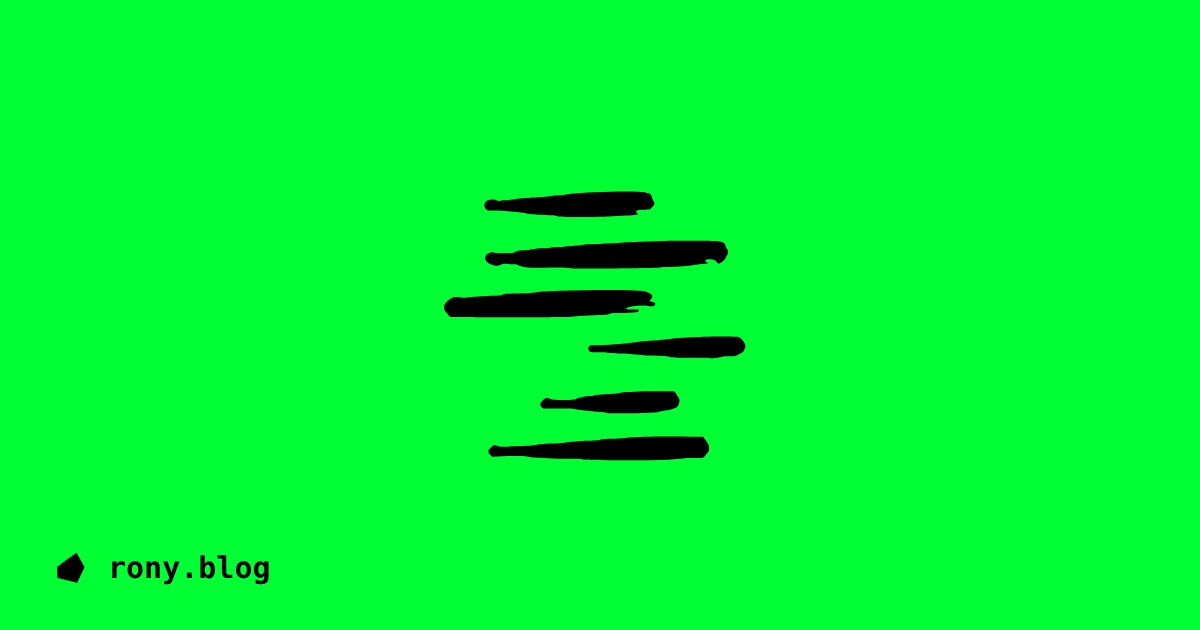
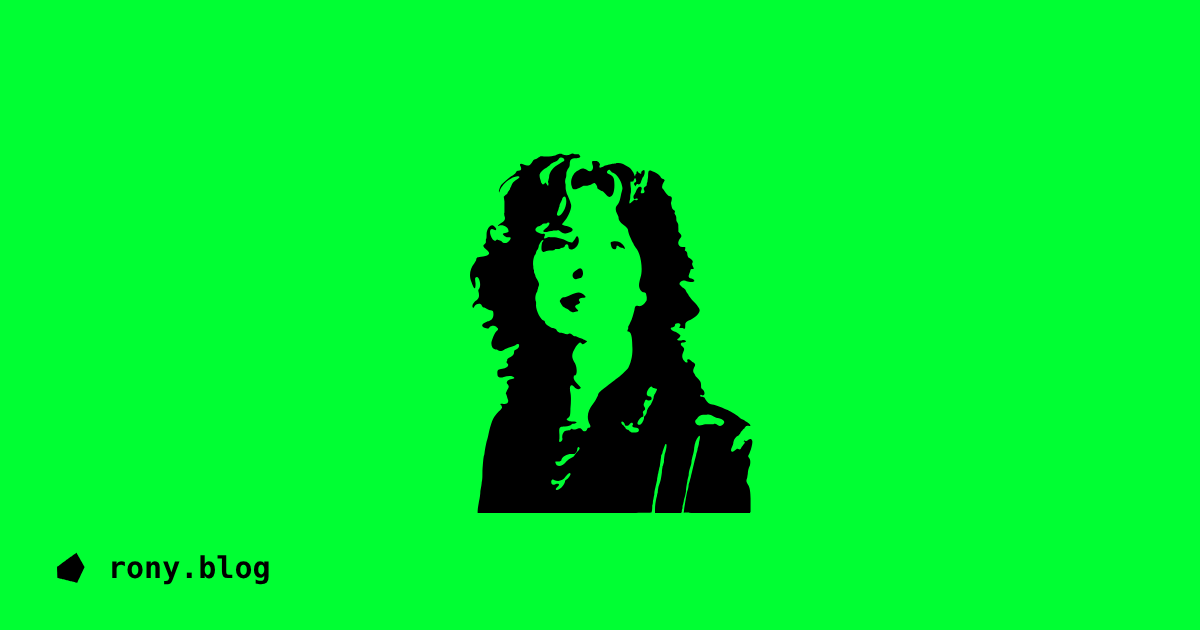
Use her portrait as the Whittaker essay's drawing
The photograph turned into solid black ink on the green: the curls, jacket
collar, brows, eyes and lips as hand-cut shapes, the skin left clear. In
the feed, the social cuts and the share card, and in the icon library.

Claude-Session: https://claude.ai/code/session_01DvgCqh7jZkxuLgej98F7v5

Changed region(s): [[0.37, 0.2413, 0.6475, 0.8143]]

diff --git a/index.html b/index.html
@@ -382,6 +382,7 @@ h2.year { font-size: 13px; font-weight: 700; letter-spacing: .3em; color: var(--
   <symbol id="i-thigh" viewBox="0 0 64 64"><g transform="translate(2 0.5)"><path fill="currentColor" fill-rule="evenodd" d="M24 6.4 C30 3.6 40 5.2 54.6 4.6 L55.4 19 Q52.4 23 49 19.8 Q46 23.4 42.4 20.2 Q39.2 23.8 35.8 20.4 Q32.6 24 29.2 20.6 Q26 22.8 23.8 19.6 C22.8 14 22.8 9.6 24 6.4 Z M27.9 10.4 a1.1 1.1 0 1 0 2.2 0 a1.1 1.1 0 1 0 -2.2 0 Z M33.9 8.2 a1.1 1.1 0 1 0 2.2 0 a1.1 1.1 0 1 0 -2.2 0 Z M39.9 11.4 a1.1 1.1 0 1 0 2.2 0 a1.1 1.1 0 1 0 -2.2 0 Z M45.9 8.6 a1.1 1.1 0 1 0 2.2 0 a1.1 1.1 0 1 0 -2.2 0 Z M51.0 13.4 a1.0 1.0 0 1 0 2.0 0 a1.0 1.0 0 1 0 -2.0 0 Z M32.1 15.4 a0.9 0.9 0 1 0 1.8 0 a0.9 0.9 0 1 0 -1.8 0 Z M38.5 16.2 a0.9 0.9 0 1 0 1.8 0 a0.9 0.9 0 1 0 -1.8 0 Z M44.1 15.6 a0.9 0.9 0 1 0 1.8 0 a0.9 0.9 0 1 0 -1.8 0 Z M3 22.4 C6 18 14 16.4 22 17.8 L27.4 19.4 C28.4 21.6 27.4 24.6 24.4 26.2 C17.4 29.6 8.4 29.2 5 27 C2.8 25.8 2.4 24 3 22.4 Z M12 29.6 L16.6 29.6 L16.8 61 L12.4 61 Z M13.4 47.2 a1.1 1.1 0 1 0 2.2 0 a1.1 1.1 0 1 0 -2.2 0 Z M44.2 39.6 L45.9 40.2 L48.8 52.6 L47.1 52.2 Z M46.3 31.0 a0.7 0.7 0 1 0 1.4 0 a0.7 0.7 0 1 0 -1.4 0 Z M48.8 35.6 a0.65 0.65 0 1 0 1.3 0 a0.65 0.65 0 1 0 -1.3 0 Z M44.0 34.0 a0.6 0.6 0 1 0 1.2 0 a0.6 0.6 0 1 0 -1.2 0 Z M35.8 52.0 a0.65 0.65 0 1 0 1.3 0 a0.65 0.65 0 1 0 -1.3 0 Z M39.4 56.0 a0.6 0.6 0 1 0 1.2 0 a0.6 0.6 0 1 0 -1.2 0 Z"/><path fill="none" stroke="currentColor" stroke-width="2.1" stroke-linecap="round" stroke-linejoin="round" d="M28.4 22 C27.2 30 28.4 41 31 52 C32.8 58.2 40 59.8 45.4 57.8 C50 55.6 51.6 46 52 36 C52.4 29 51.4 24 50.4 21 M30.2 31.4 L33.8 28.6 M30.4 36.6 L34 33.8 M31.2 41.8 L34.8 39 M32.2 47 L35.6 44.2 M25.6 28.4 C28.2 30.4 28.2 34 26.6 36.6 M11.2 47.2 a3.3 3.3 0 1 0 6.6 0 a3.3 3.3 0 1 0 -6.6 0 M12 40.6 L17 40.6"/></g></symbol>
   <symbol id="i-paw" viewBox="0 0 64 64"><path fill="currentColor" fill-rule="evenodd" d="M44.7 52.5 C45.3 52.4 45.6 52.4 45.9 52.3 C47.7 51.8 49.1 50.7 50.0 49.1 C50.3 48.6 50.4 48.5 50.5 48.1 C50.6 48.0 50.6 47.8 50.7 47.7 C50.9 47.2 51.3 45.8 51.5 44.9 C51.5 44.5 51.5 43.0 51.5 42.5 C51.1 40.7 50.2 39.2 48.4 37.3 C47.5 36.4 46.7 35.7 44.9 34.1 C44.6 33.9 44.3 33.7 44.3 33.7 C44.3 33.6 44.2 33.6 44.1 33.5 C43.8 33.2 42.5 32.1 41.7 31.4 C41.0 30.7 40.0 29.8 39.6 29.3 C38.9 28.6 38.2 28.1 37.3 27.7 C36.4 27.2 35.9 27.0 34.7 26.8 C34.5 26.7 34.1 26.6 33.5 26.6 C33.3 26.5 32.6 26.5 31.9 26.5 C31.3 26.5 30.6 26.5 30.4 26.6 C29.5 26.7 29.4 26.7 28.7 26.9 C28.5 26.9 27.9 27.1 27.7 27.2 C27.7 27.2 27.5 27.2 27.3 27.3 C27.0 27.4 26.6 27.6 26.1 27.9 C25.8 28.1 25.4 28.4 24.7 29.1 C23.2 30.4 22.2 31.3 19.8 33.1 C18.9 33.8 17.7 34.7 17.2 35.1 C16.2 36.0 14.8 37.6 14.4 38.3 C13.9 39.2 13.6 40.0 13.5 40.8 C13.4 41.0 13.4 41.2 13.3 41.4 C13.3 41.7 13.3 43.2 13.3 43.5 C13.4 43.7 13.4 44.0 13.4 44.3 C13.5 45.1 13.7 45.7 13.9 46.6 C14.1 47.2 14.3 47.6 14.8 48.6 C15.5 50.0 17.1 51.3 18.7 51.8 C19.4 52.0 19.4 52.0 20.4 52.1 C21.9 52.4 24.4 51.9 26.3 51.1 C26.4 51.0 26.6 51.0 26.6 51.0 C26.6 51.0 26.8 50.9 27.1 50.8 C27.4 50.6 27.7 50.5 27.8 50.5 C27.9 50.4 28.0 50.4 28.1 50.3 C28.7 50.1 30.0 49.8 30.9 49.7 C31.7 49.5 32.9 49.6 33.9 49.8 C34.4 50.0 35.0 50.1 35.1 50.2 C35.2 50.2 35.4 50.2 35.6 50.3 C36.3 50.5 36.4 50.5 36.9 50.7 C37.4 51.0 37.8 51.2 37.9 51.2 C37.9 51.2 38.0 51.3 38.2 51.3 C38.5 51.5 39.7 51.9 40.1 52.0 C40.8 52.2 41.3 52.3 41.9 52.4 C42.8 52.6 43.8 52.6 44.7 52.5 Z M51.3 34.5 C52.8 34.2 54.0 33.5 55.2 32.2 C56.3 31.1 57.2 29.8 57.7 28.5 C57.8 28.3 57.8 28.1 57.8 28.1 C58.0 27.8 58.1 27.2 58.2 26.6 C58.5 25.4 58.4 24.1 58.1 23.1 C57.9 22.4 57.4 21.8 57.0 21.3 C56.0 20.5 54.6 20.2 53.3 20.6 C53.1 20.7 52.9 20.7 52.9 20.7 C52.9 20.7 52.5 20.8 52.0 21.1 C50.8 21.7 49.3 23.0 48.4 24.5 C47.6 25.6 47.0 27.0 46.8 28.3 C46.7 28.4 46.7 28.6 46.7 28.8 C46.6 29.1 46.6 30.7 46.7 31.0 C46.7 31.2 46.7 31.4 46.8 31.5 C46.8 31.9 47.1 32.5 47.3 32.8 C47.5 33.2 47.6 33.3 47.9 33.6 C48.4 34.1 48.9 34.3 49.7 34.5 C49.9 34.6 50.9 34.6 51.3 34.5 Z M16.0 32.3 C16.5 32.2 16.7 32.2 17.2 32.0 C18.4 31.4 19.5 30.1 19.9 28.5 C20.2 27.2 20.2 25.6 19.8 24.1 C19.7 23.4 19.6 23.4 19.5 22.9 C18.6 20.8 17.1 19.0 15.4 18.2 C13.8 17.4 12.4 17.3 11.0 18.0 C8.6 19.1 7.4 22.4 8.3 25.7 C8.3 25.9 8.4 26.0 8.4 26.1 C8.5 26.6 8.9 27.5 9.0 27.8 C9.1 27.8 9.2 28.1 9.3 28.3 C10.1 29.8 11.5 31.1 12.9 31.8 C13.6 32.1 13.7 32.2 14.5 32.3 C14.8 32.4 15.7 32.4 16.0 32.3 Z M40.1 25.4 C40.5 25.3 40.7 25.3 41.1 25.2 C42.8 24.4 44.5 22.6 45.3 20.4 C45.4 20.2 45.5 19.9 45.6 19.9 C45.6 19.8 45.6 19.6 45.7 19.4 C45.8 19.2 45.8 19.0 45.8 18.9 C46.1 18.2 46.2 17.0 46.2 15.9 C46.2 12.8 45.0 10.4 43.0 9.5 C42.4 9.2 42.0 9.1 41.3 9.1 C40.7 9.1 40.5 9.1 40.0 9.3 C38.9 9.6 37.6 10.5 36.7 11.7 C35.9 12.7 35.2 14.1 34.9 15.3 C34.6 16.3 34.6 16.5 34.5 17.4 C34.2 20.0 34.9 22.6 36.2 24.0 C37.3 25.2 38.7 25.7 40.1 25.4 Z M28.4 24.8 C30.3 24.4 31.9 22.6 32.4 20.0 C32.5 19.9 32.5 19.7 32.5 19.7 C32.8 18.3 32.7 16.1 32.3 14.6 C32.3 14.4 32.2 14.2 32.2 14.1 C32.0 13.3 31.4 12.1 30.9 11.3 C30.5 10.8 30.4 10.6 29.8 10.1 C29.1 9.4 28.6 9.0 27.7 8.6 C27.1 8.4 25.9 8.3 25.2 8.5 C24.4 8.7 23.7 9.1 23.1 9.8 C22.1 10.8 21.5 12.0 21.1 14.1 C21.0 14.6 21.1 16.8 21.2 17.4 C21.3 18.2 21.3 18.4 21.4 18.6 C21.4 18.6 21.5 18.9 21.5 19.0 C21.6 19.2 21.6 19.4 21.6 19.4 C21.7 19.5 21.7 19.6 21.8 19.8 C21.9 20.2 22.3 21.1 22.7 21.6 C23.7 23.3 25.1 24.5 26.7 24.8 C27.1 24.9 28.0 24.9 28.4 24.8 Z"/></symbol>
   <symbol id="i-oven-fish" viewBox="0 0 64 64"><g transform="translate(0 -1)"><path fill="currentColor" fill-rule="evenodd" d="M18.6 40.2 C22.6 33.4 32 32.4 38.2 36.6 L43.4 33.2 C44.2 35.6 43.8 37.6 42.6 40.2 C43.8 42.8 44.2 44.8 43.4 47.2 L38.2 43.8 C32 48 22.6 47 18.6 40.2 Z M22.4 39.4 a1.25 1.25 0 1 0 2.5 0 a1.25 1.25 0 1 0 -2.5 0 Z M27.4 35.2 C29.8 38.4 29.8 42 27.6 45.4 C28.8 42 28.8 38.4 27.4 35.2 Z M31.3 39.0 a0.7 0.7 0 1 0 1.4 0 a0.7 0.7 0 1 0 -1.4 0 Z M34.7 41.6 a0.7 0.7 0 1 0 1.4 0 a0.7 0.7 0 1 0 -1.4 0 Z M31.8 43.0 a0.65 0.65 0 1 0 1.3 0 a0.65 0.65 0 1 0 -1.3 0 Z M35.0 37.6 a0.65 0.65 0 1 0 1.3 0 a0.65 0.65 0 1 0 -1.3 0 Z M15.6 13.2 a1.9 1.9 0 1 0 3.8 0 a1.9 1.9 0 1 0 -3.8 0 Z M25.1 13.2 a1.9 1.9 0 1 0 3.8 0 a1.9 1.9 0 1 0 -3.8 0 Z M35.1 13.2 a1.9 1.9 0 1 0 3.8 0 a1.9 1.9 0 1 0 -3.8 0 Z M44.6 13.2 a1.9 1.9 0 1 0 3.8 0 a1.9 1.9 0 1 0 -3.8 0 Z"/><path fill="none" stroke="currentColor" stroke-width="2.3" stroke-linecap="round" stroke-linejoin="round" d="M12.3 8.5 H51.8 Q56.5 8.3 56.3 12.5 L55.8 54.3 Q56.1 58.6 51.6 58.2 H12.2 Q8.0 58.4 7.9 53.8 L7.9 12.8 Q8.2 8.0 12.4 8.2 Z M8.3 18.8 H55.6 M18.4 27.2 H45.6 Q50.3 27.4 50.1 31.7 V48.8 Q50.1 53.0 46.1 53.1 H18.7 Q14.2 53.1 13.9 48.6 V31.4 Q13.7 27.3 18.3 27.1 Z M17.1 22.8 H47.3 M13.6 58.8 V61.5 M50.6 58.9 V61.3"/></g></symbol>
+  <symbol id="i-whittaker" viewBox="0 0 64 64"><path fill="currentColor" fill-rule="evenodd" d="M39.5 60.7 C39.6 60.4 39.6 60.1 39.6 59.7 C39.7 59.5 39.7 59.1 39.7 59.0 C39.8 58.8 39.8 58.4 39.9 58.1 C39.9 57.6 40.0 57.4 40.3 56.0 C40.3 55.7 40.4 55.4 40.4 55.3 C40.4 55.2 40.5 55.0 40.5 54.8 C40.6 54.5 40.6 54.2 40.7 54.0 C40.8 53.2 40.9 52.6 40.9 52.4 C41.0 52.3 41.1 52.1 41.1 51.9 C41.2 51.6 41.4 51.0 41.5 50.8 C41.8 50.5 41.7 51.5 41.4 52.3 C41.4 52.4 41.3 52.9 41.3 53.4 C41.2 53.6 41.2 53.9 41.1 54.0 C41.1 54.2 41.0 54.5 41.0 54.9 C40.8 56.3 40.8 56.1 40.5 57.0 C40.5 57.1 40.4 57.5 40.4 57.8 C40.3 58.0 40.3 58.4 40.2 58.6 C40.1 59.1 40.0 59.7 40.0 60.3 L40.0 60.8 L41.9 60.8 L43.8 60.8 L43.9 60.6 C43.9 60.5 43.9 60.3 44.0 60.1 C44.0 59.9 44.0 59.7 44.1 59.5 C44.1 59.4 44.2 59.1 44.2 58.9 C44.3 58.6 44.4 58.2 44.5 57.7 C44.5 57.3 44.6 56.6 44.7 56.2 C44.7 56.1 44.8 55.7 44.9 55.3 C44.9 54.9 45.0 54.5 45.1 54.2 C45.2 53.9 45.3 53.6 45.3 53.4 C45.3 53.2 45.4 52.8 45.5 52.4 C45.6 52.1 45.7 51.6 45.7 51.3 C45.8 50.6 46.0 50.0 46.3 49.7 C46.6 49.3 46.6 49.8 46.4 50.5 C46.4 50.8 46.3 51.1 46.2 51.4 C46.2 51.6 46.1 51.9 46.0 52.2 C46.0 52.4 45.8 53.0 45.7 53.5 C45.4 54.7 45.4 54.8 45.2 55.6 C45.1 55.9 45.0 56.4 44.9 56.6 C44.9 56.9 44.8 57.4 44.7 57.6 C44.5 58.5 44.5 58.8 44.4 59.2 C44.3 59.8 44.2 60.5 44.2 60.6 C44.0 60.8 43.7 60.8 49.0 60.8 L53.8 60.8 L53.9 60.6 C53.9 60.4 53.9 60.1 53.9 59.8 C53.9 59.6 53.9 59.1 53.9 58.7 C53.9 57.9 53.8 57.1 53.6 56.8 C53.3 56.3 53.2 56.2 53.4 55.7 C53.4 55.5 53.5 55.3 53.5 55.1 C53.5 54.7 53.6 54.3 53.8 53.9 C53.9 53.4 53.9 53.1 53.7 52.8 C53.5 52.6 53.5 52.5 53.7 52.2 C54.0 51.6 54.3 50.3 54.1 50.2 C54.0 50.0 53.9 50.0 53.5 50.2 C53.2 50.4 53.2 50.4 53.1 50.3 C53.1 50.2 52.9 50.3 52.9 50.4 C52.9 50.4 53.0 50.4 53.0 50.4 C53.1 50.5 53.1 50.6 52.9 50.8 C52.8 50.9 52.7 51.1 52.6 51.2 C52.4 51.6 52.4 51.6 52.1 51.5 C51.9 51.4 51.9 51.5 51.6 51.7 C51.1 52.1 50.9 51.8 51.2 51.2 C51.3 50.9 51.4 50.8 51.4 50.5 C51.5 50.1 51.7 49.7 52.2 49.5 C52.2 49.4 52.4 49.3 52.4 49.2 C52.5 49.0 52.6 48.9 52.7 48.8 C52.7 48.8 52.8 48.6 53.0 48.5 C53.2 48.1 53.3 48.1 53.6 48.1 C54.2 48.3 53.8 47.7 53.1 47.4 C53.0 47.3 52.7 47.2 52.5 47.1 C52.0 46.6 50.9 46.0 50.7 45.9 C50.6 45.8 50.2 45.7 49.8 45.5 C49.1 45.2 48.6 45.0 48.3 45.0 C47.9 45.0 47.6 44.7 47.3 44.2 C47.2 44.0 47.2 44.0 46.9 43.9 C46.8 43.9 46.7 43.9 46.6 43.8 C46.5 43.8 46.6 43.6 46.7 43.6 C47.0 43.8 47.1 43.7 47.2 43.5 C47.2 43.2 47.2 43.1 46.9 42.8 C46.7 42.6 46.7 42.6 46.7 42.2 C46.7 41.8 46.6 41.6 46.1 41.1 C46.0 41.0 45.9 40.9 45.8 40.7 C45.8 40.6 45.7 40.5 45.7 40.5 C45.5 40.3 45.5 40.0 45.7 39.6 C45.9 39.3 45.9 39.1 45.6 38.9 C45.5 38.9 45.3 38.7 45.2 38.6 C44.9 38.3 44.6 38.4 44.7 38.7 C44.8 38.9 44.7 38.9 44.6 38.9 C44.4 38.9 44.3 38.8 44.3 38.7 C44.3 38.7 44.2 38.6 44.2 38.6 C43.9 38.3 43.9 37.8 44.1 37.4 C44.3 37.0 44.3 36.9 44.0 36.6 C43.6 36.2 43.7 36.0 44.2 36.0 C44.5 35.9 44.6 35.9 44.4 35.7 C44.3 35.6 44.2 35.6 43.8 35.7 C43.4 35.8 43.0 35.6 43.4 35.4 C43.5 35.3 43.6 35.2 43.7 35.0 C43.7 34.9 43.2 34.5 42.8 34.4 C42.3 34.2 42.1 33.8 42.5 33.8 C42.8 33.7 42.9 33.7 42.9 33.5 C42.9 33.3 43.0 33.2 43.3 33.2 C43.7 33.2 43.8 33.4 43.6 33.7 C43.5 33.9 43.5 33.9 43.8 33.9 C43.9 33.9 44.1 33.9 44.2 34.0 C44.4 34.0 44.4 34.0 44.4 33.5 C44.4 33.1 44.5 33.0 44.9 32.8 C45.7 32.5 46.5 31.8 46.5 31.3 C46.5 31.0 46.1 30.5 45.4 29.8 C45.3 29.7 45.1 29.4 45.0 29.3 C44.9 29.2 44.8 28.9 44.6 28.7 C44.5 28.5 44.4 28.3 44.4 28.3 C44.4 28.3 44.2 28.1 44.0 28.0 C43.8 27.8 43.6 27.6 43.6 27.6 C43.4 27.2 44.2 26.8 44.6 27.1 C44.9 27.2 45.6 27.3 45.7 27.1 C45.8 27.0 45.6 26.8 45.3 26.7 C44.8 26.6 44.8 26.4 45.1 25.7 C45.2 25.3 45.2 25.3 45.4 25.3 C45.7 25.3 45.7 25.3 45.5 24.9 C45.4 24.7 45.4 24.6 45.4 24.5 C45.6 24.2 45.5 24.0 45.0 23.7 C44.8 23.6 44.8 23.6 44.7 23.2 C44.7 23.0 44.7 22.9 44.5 22.7 C44.3 22.6 44.3 22.6 44.4 22.4 C44.4 22.2 44.4 22.1 44.4 22.1 C44.4 22.1 44.3 22.1 44.1 22.1 C43.4 22.2 43.1 21.5 43.7 20.8 C43.9 20.6 43.9 20.4 43.6 20.1 L43.4 19.9 L43.4 19.4 C43.4 18.8 43.4 18.8 43.3 18.6 C43.1 18.3 43.1 18.3 43.1 18.0 C43.1 17.8 43.1 17.7 43.0 17.5 C42.8 17.2 42.8 17.2 42.9 17.0 C42.9 16.9 42.9 16.8 42.8 16.8 C42.6 16.6 42.5 16.6 42.4 16.1 C42.3 15.7 42.3 15.7 42.4 15.4 C42.5 14.9 42.5 14.8 42.0 14.7 C41.9 14.6 41.8 14.5 41.6 14.3 C41.5 14.1 41.3 13.9 41.2 13.7 C41.0 13.5 41.0 13.5 41.1 13.0 C41.2 12.8 41.3 12.6 41.3 12.6 C41.5 12.4 41.4 12.3 41.2 12.2 C41.0 12.2 40.9 12.1 40.8 11.9 C40.7 11.7 40.4 11.4 39.9 11.2 C39.1 10.8 39.0 10.9 39.0 11.7 C39.0 12.1 38.9 12.4 38.9 12.6 C38.8 12.8 38.8 12.9 38.8 13.0 C38.8 13.1 38.8 13.2 38.6 13.3 C38.4 13.4 38.3 13.6 38.4 13.8 C38.6 14.1 38.4 14.3 38.1 14.3 C37.9 14.3 37.9 14.2 38.0 13.9 C38.1 13.6 38.1 13.5 38.0 13.4 C37.7 13.2 37.4 13.5 37.2 14.1 C37.1 14.3 37.0 14.5 36.9 14.6 C36.8 14.9 36.9 15.2 37.2 15.1 C37.4 15.0 37.5 15.1 37.5 15.2 C37.4 15.3 37.4 15.3 37.2 15.3 C37.0 15.2 37.0 15.2 36.7 15.5 C36.3 15.9 36.2 15.9 36.3 15.4 C36.4 15.2 36.4 14.9 36.4 14.7 C36.4 14.5 36.5 14.2 36.5 14.1 C36.5 14.0 36.5 13.9 36.5 13.6 C36.4 13.0 36.4 12.5 36.5 12.6 C36.8 12.6 36.9 12.6 36.9 12.4 C37.1 12.0 37.1 12.0 37.2 12.2 C37.3 12.4 37.3 12.7 37.1 12.7 C36.9 12.8 36.9 13.0 37.1 13.2 C37.2 13.3 37.2 13.3 37.2 13.2 C37.3 13.0 37.4 12.9 37.6 13.0 C37.8 13.0 37.9 12.9 38.0 12.5 C38.1 12.3 38.1 12.2 38.2 12.0 C38.5 11.8 38.6 11.0 38.4 10.9 C38.3 10.9 38.0 11.1 38.0 11.2 C38.0 11.3 38.0 11.3 38.0 11.4 C38.0 11.5 37.8 11.4 37.6 11.3 C37.5 11.0 37.3 11.0 37.3 11.3 C37.3 11.4 37.3 11.5 37.2 11.5 C37.2 11.6 37.1 11.7 37.1 11.8 C37.1 11.9 37.1 11.8 37.0 11.7 C37.0 11.4 36.6 10.8 36.2 10.5 C35.4 10.0 35.0 9.8 34.4 9.9 C34.3 10.0 34.0 10.0 33.9 10.0 C33.8 10.0 33.6 10.1 33.4 10.1 C33.3 10.1 33.1 10.2 33.0 10.2 C32.9 10.2 32.7 10.2 32.5 10.4 C31.9 10.7 31.8 10.6 32.0 10.1 C32.0 9.9 31.6 9.5 31.4 9.6 C31.3 9.6 31.2 9.6 31.1 9.6 C30.8 9.6 30.8 9.7 30.9 10.1 C31.2 10.8 30.7 11.4 30.1 10.9 C29.8 10.7 29.4 10.6 29.1 10.8 C29.0 10.9 28.8 11.0 28.6 11.1 C28.0 11.5 27.6 12.6 27.9 13.3 C28.0 13.9 28.5 13.8 29.4 13.3 C29.6 13.2 29.6 13.2 29.9 13.2 C30.2 13.2 30.6 13.1 30.9 12.9 C31.0 12.9 31.1 12.8 31.2 12.8 C31.3 12.8 31.6 13.2 31.6 13.4 C31.6 13.5 31.6 13.6 31.8 13.7 C32.1 13.9 32.1 13.9 32.4 14.0 C32.5 14.1 32.6 14.2 32.8 14.4 C33.5 15.3 34.1 14.7 34.1 13.1 C34.1 12.2 34.0 11.9 33.5 11.6 C33.0 11.4 32.9 11.2 33.1 11.0 C33.3 10.8 33.4 10.8 33.6 11.1 C33.7 11.2 33.7 11.3 33.9 11.3 C34.4 11.5 35.1 12.4 35.2 13.2 C35.3 13.6 35.3 13.6 35.1 14.3 C34.9 15.4 34.8 15.6 34.6 15.9 C34.2 16.3 34.2 16.8 34.5 17.3 C34.6 17.5 34.7 17.7 34.7 17.8 C34.7 18.1 34.8 18.3 35.3 18.8 C36.0 19.3 36.1 19.5 36.1 19.8 C36.2 20.2 36.3 20.5 36.5 20.9 C36.6 21.1 36.7 21.4 36.8 21.5 C36.9 21.8 37.0 21.9 37.2 22.2 C37.9 22.9 38.3 25.3 37.9 26.5 C37.6 27.6 37.6 27.9 37.9 28.4 C38.2 28.7 38.2 28.7 38.4 28.7 C38.7 28.8 38.7 28.8 38.8 29.4 C38.8 29.8 38.8 29.9 38.7 30.0 C38.4 30.5 38.0 30.8 37.6 30.7 C37.2 30.6 37.1 30.6 37.0 31.3 C36.8 32.0 36.7 32.5 36.4 33.1 C36.3 33.4 36.1 33.7 36.1 33.7 C36.1 33.8 36.1 33.9 36.1 34.0 C35.9 34.3 36.0 34.4 36.1 34.4 C36.5 34.4 36.7 35.1 36.7 36.6 C36.8 37.7 36.5 39.0 36.1 39.7 C35.9 40.0 34.8 41.0 34.5 41.2 C34.3 41.3 34.0 41.6 33.6 41.9 C31.9 43.2 31.8 43.3 31.7 43.7 C31.5 44.1 31.3 44.5 31.0 44.9 C30.2 45.9 30.0 46.9 30.5 47.9 C30.7 48.2 30.6 48.4 30.3 48.4 C30.2 48.5 30.1 48.5 30.1 48.7 C29.9 49.0 29.6 49.0 29.4 48.7 C29.3 48.5 29.1 48.4 28.8 48.5 C28.4 48.7 28.3 48.7 28.0 48.6 C27.9 48.5 27.8 48.5 27.7 48.7 C27.5 48.8 27.4 48.8 27.2 48.8 C26.8 48.8 26.5 49.2 26.5 49.8 C26.6 50.1 26.5 50.3 26.3 50.4 C26.1 50.6 26.0 50.4 26.1 50.0 C26.1 49.8 26.1 49.6 26.1 49.4 C26.0 48.3 26.1 48.2 26.9 48.2 C27.4 48.2 27.7 48.1 27.9 47.9 C27.9 47.8 28.1 47.8 28.2 47.8 C28.8 47.7 28.7 47.5 28.0 47.5 C27.4 47.5 26.9 47.2 27.3 47.0 C27.6 46.8 27.7 46.7 27.7 45.6 C27.8 44.7 27.8 43.7 27.7 43.3 C27.5 42.4 27.7 41.9 28.2 42.4 C28.5 42.8 28.9 42.9 29.1 42.7 C29.3 42.6 29.2 42.5 28.8 42.1 C28.2 41.5 28.1 41.3 28.2 40.9 C28.2 40.8 28.2 40.8 28.3 40.8 C28.7 40.8 28.7 39.8 28.4 39.1 C27.8 38.1 27.8 37.8 28.5 36.6 C29.0 35.9 29.1 35.9 29.3 36.1 C29.4 36.3 29.5 36.3 29.8 36.1 C30.2 35.8 30.2 35.8 29.9 35.7 C29.8 35.6 29.6 35.6 29.5 35.5 C29.3 35.4 28.9 35.3 28.5 35.1 C28.2 35.1 28.1 35.0 28.0 34.9 C27.7 34.7 27.6 34.6 27.3 34.8 C27.1 34.8 27.0 34.8 26.8 34.7 C26.6 34.7 26.4 34.6 26.3 34.6 C26.1 34.6 25.7 34.3 25.7 34.2 C25.7 34.1 25.3 33.9 25.1 33.9 C24.7 33.8 24.0 33.3 24.0 33.1 C24.0 32.9 23.9 32.8 23.8 32.8 C23.4 32.8 22.6 31.2 22.7 30.5 C22.7 30.4 22.7 30.2 22.7 30.1 C22.5 29.7 22.6 29.1 22.8 28.7 C22.9 28.6 22.9 28.4 22.9 28.4 C22.9 28.3 23.0 28.2 23.0 28.0 C23.2 27.6 23.2 27.5 22.9 26.9 C22.7 26.6 22.6 26.4 22.6 26.3 C22.6 26.3 22.6 26.2 22.5 26.0 C22.4 25.9 22.4 25.7 22.4 25.5 C22.3 25.3 22.3 25.1 22.3 24.9 C22.2 24.5 22.3 23.7 22.5 23.3 C22.6 23.2 22.7 23.0 22.7 22.9 C22.7 22.8 22.8 22.6 22.9 22.5 C23.0 22.4 23.1 22.1 23.1 21.9 C23.3 21.5 23.5 21.1 23.7 21.1 C23.8 21.1 23.8 21.2 23.6 21.4 C23.5 21.7 23.4 22.6 23.6 22.7 C23.7 22.9 23.7 22.9 24.2 22.7 C24.5 22.6 24.7 22.6 24.9 22.6 C25.2 22.6 25.3 22.6 25.4 22.5 C25.5 22.4 25.5 22.4 25.7 22.4 C25.9 22.4 26.0 22.4 26.1 22.4 C26.2 22.3 26.4 22.2 26.6 22.2 C26.8 22.1 26.9 22.1 26.9 21.9 C27.1 21.6 27.4 21.7 27.4 22.0 C27.4 22.9 28.7 22.4 28.9 21.4 C29.0 20.8 28.7 20.3 28.5 20.7 C28.4 20.9 28.2 21.2 28.0 21.4 C27.9 21.5 27.5 21.4 27.1 21.2 C26.8 21.0 25.7 20.7 25.2 20.7 C25.1 20.7 24.8 20.7 24.7 20.7 C24.6 20.6 24.5 20.7 24.2 20.8 C23.9 20.9 23.8 20.9 23.9 20.6 C24.1 20.3 24.0 20.1 23.6 20.2 C23.3 20.2 22.6 19.9 22.6 19.6 C22.6 19.4 22.9 19.1 23.1 19.1 C23.1 19.1 23.3 19.0 23.5 18.9 C23.7 18.7 23.8 18.7 23.9 18.7 C24.0 18.7 24.2 18.7 24.3 18.6 C24.9 18.4 24.7 19.0 24.0 19.5 C23.5 19.9 23.8 20.1 24.6 19.8 C24.7 19.8 25.0 19.8 25.2 19.7 C25.4 19.7 25.7 19.7 25.7 19.7 C26.0 19.6 26.1 19.7 26.3 19.9 C26.7 20.2 26.9 20.2 27.5 20.0 C28.4 19.7 28.1 19.2 26.9 19.0 C26.4 18.9 26.4 18.8 26.7 18.5 C27.3 17.9 27.9 16.6 27.8 16.0 C27.8 15.8 27.4 14.8 27.3 14.6 C27.2 14.5 27.0 13.8 27.0 13.5 C27.0 13.4 27.0 13.2 27.0 13.0 C26.9 12.8 26.9 12.4 27.0 12.1 C27.1 12.0 27.1 11.7 27.1 11.5 C27.1 11.1 27.2 11.1 27.3 10.8 C27.5 10.5 27.6 10.4 27.6 10.1 C27.6 9.4 27.8 9.2 28.5 9.2 C28.6 9.2 29.1 9.1 29.1 9.0 C29.2 9.0 29.1 8.8 28.9 8.6 C28.9 8.6 28.8 8.6 28.7 8.6 C28.5 8.6 28.4 8.6 28.3 8.6 C28.1 8.5 27.9 8.5 27.7 8.6 C27.4 8.8 26.9 8.8 26.5 8.6 C26.3 8.5 25.8 8.6 25.5 8.8 C25.2 8.9 24.1 9.0 23.6 8.9 C23.4 8.9 23.3 8.9 23.2 9.0 C23.1 9.0 22.9 9.2 22.7 9.3 C22.3 9.4 22.3 9.5 22.1 9.8 C21.7 10.3 21.6 10.4 20.9 10.1 C20.4 9.9 20.2 10.0 20.5 10.5 C20.6 10.9 20.5 11.0 20.1 11.0 C20.0 11.0 19.9 11.0 19.8 11.2 C19.7 11.4 19.6 11.5 19.3 11.7 C18.9 11.9 18.2 12.5 17.8 12.9 C17.5 13.2 17.5 13.3 17.3 13.9 C17.3 14.2 17.3 14.3 17.4 14.0 C17.7 13.0 19.0 11.9 20.0 11.8 C20.4 11.8 20.4 12.0 19.9 12.3 C19.4 12.6 19.3 12.8 19.1 13.2 C19.1 13.3 18.9 13.5 18.9 13.7 C18.8 13.8 18.7 14.0 18.6 14.1 C18.6 14.2 18.5 14.4 18.3 14.5 L18.0 14.8 L18.1 15.5 C18.1 15.9 18.1 16.4 18.1 16.5 C18.1 16.7 18.1 16.9 18.1 17.1 C18.0 17.3 18.1 17.4 18.1 17.6 C18.3 18.0 18.1 18.3 17.8 18.5 C17.4 18.7 16.9 19.2 17.3 19.0 C17.9 18.8 18.7 19.2 18.7 19.8 C18.7 19.9 18.6 20.0 18.0 20.1 C17.8 20.2 17.8 20.2 18.1 20.5 C18.4 20.7 18.5 20.7 18.7 20.7 C19.1 20.6 19.1 20.8 18.8 21.2 C18.5 21.6 18.1 21.6 17.8 21.4 C17.7 21.3 17.6 21.2 17.5 21.2 C17.4 21.2 17.3 21.1 17.2 21.1 C17.1 21.0 17.0 21.0 16.9 21.1 C16.9 21.3 16.6 21.2 16.4 21.0 C15.8 20.2 15.9 19.1 16.6 19.6 C16.8 19.7 16.9 19.7 16.9 19.5 C16.9 19.4 16.8 19.3 16.8 19.3 C16.8 19.3 16.7 19.2 16.6 19.1 C16.2 18.6 15.5 19.4 15.5 20.3 C15.5 20.7 15.5 20.9 15.4 21.0 C15.4 21.1 15.4 21.3 15.4 21.4 C15.4 21.5 15.3 21.6 15.2 21.7 C14.9 21.9 15.0 22.1 15.5 22.5 C16.1 23.0 16.0 23.3 15.0 23.5 C14.1 23.6 14.1 23.6 14.0 23.9 C14.0 24.1 13.9 24.2 13.7 24.5 C13.1 25.2 12.9 26.3 13.3 27.2 C13.7 28.4 13.9 28.4 13.9 27.4 C13.8 26.6 13.8 26.6 14.0 26.5 C14.4 26.2 14.8 27.7 14.4 28.2 C14.3 28.3 14.3 28.3 14.3 28.5 C14.5 29.2 14.4 29.6 14.1 29.8 C13.6 30.1 13.3 30.6 13.5 30.9 C13.6 31.0 13.6 31.0 13.7 30.8 C13.9 30.3 14.7 30.2 14.8 30.6 C14.9 30.8 14.9 30.8 15.1 30.9 C15.2 30.9 15.4 31.0 15.5 31.1 C15.7 31.2 15.9 31.3 16.0 31.3 C16.4 31.3 16.5 31.4 16.5 31.9 C16.5 32.5 16.2 32.8 15.8 32.9 C15.5 32.9 14.9 33.3 14.9 33.4 C14.8 33.6 14.9 33.7 15.1 33.8 C15.7 34.0 15.8 34.0 15.9 33.8 C16.2 33.5 16.7 33.5 17.0 33.8 C17.3 34.0 17.2 34.2 16.9 34.4 C16.7 34.6 16.2 35.7 16.2 36.1 C16.2 36.6 16.4 36.9 16.8 37.0 C16.9 37.0 17.1 37.0 17.1 37.1 C17.4 37.3 17.7 37.3 18.1 37.0 C18.2 37.0 18.6 36.8 18.9 36.7 C19.2 36.6 19.5 36.5 19.7 36.4 C20.0 36.2 20.1 36.2 20.2 36.3 C20.3 36.5 20.2 36.8 19.8 37.0 C19.6 37.1 19.5 37.1 19.5 37.4 C19.5 37.7 19.3 37.9 19.0 38.1 C18.6 38.3 18.5 38.4 18.5 38.5 C18.5 38.6 18.5 38.7 18.4 38.8 C18.4 38.9 18.4 38.9 18.5 39.0 C18.9 39.3 18.5 39.7 17.8 39.8 C17.1 39.9 17.0 40.0 17.1 40.8 C17.2 41.1 17.6 41.2 18.0 41.0 C18.6 40.8 19.4 40.8 19.5 41.1 C19.6 41.2 19.5 41.3 19.2 41.3 C18.6 41.4 18.3 41.7 18.5 42.0 C18.8 42.3 18.8 42.5 18.5 42.9 C18.4 43.2 18.3 43.3 18.3 43.4 C18.4 43.5 18.5 44.0 18.6 44.3 C18.8 44.7 18.4 45.1 17.8 44.9 C17.5 44.9 17.4 44.9 17.6 45.1 C17.6 45.1 17.7 45.2 17.7 45.3 C17.8 45.4 17.8 45.6 17.3 46.0 C16.5 46.8 16.3 47.3 15.9 48.8 C15.8 49.2 15.7 49.8 15.6 50.1 C15.5 50.3 15.4 50.9 15.3 51.4 C15.2 51.9 15.2 52.4 15.1 52.5 C15.0 53.1 15.0 53.4 14.9 54.6 C14.9 55.6 14.9 55.9 14.8 56.3 C14.8 56.5 14.7 57.1 14.6 57.6 C14.6 58.0 14.5 58.7 14.4 59.1 C14.3 59.7 14.2 60.3 14.2 60.6 L14.2 60.8 L26.8 60.8 C39.5 60.8 39.5 60.8 39.5 60.7 Z M25.6 57.4 C25.5 57.3 25.6 57.2 25.9 56.9 C26.2 56.6 26.0 56.5 25.5 56.6 C25.1 56.8 24.9 56.6 24.9 56.2 C25.0 55.9 25.1 55.9 25.3 56.0 C26.0 56.3 26.6 56.1 27.0 55.5 C27.3 55.1 27.7 54.8 27.7 55.1 C27.8 55.2 27.4 55.7 27.2 55.9 C27.0 56.0 26.9 56.1 26.9 56.3 C26.6 57.1 25.9 57.6 25.6 57.4 Z M25.8 53.9 C25.7 53.9 25.5 53.5 25.5 53.4 C25.5 53.3 25.5 53.3 25.9 53.3 C26.2 53.3 26.4 53.2 26.4 53.0 C26.5 52.6 27.2 52.2 27.8 52.2 C28.0 52.2 28.2 52.2 28.3 52.2 C28.5 52.1 28.7 51.8 28.7 51.5 C28.7 51.3 28.9 51.1 29.0 51.3 C29.1 51.4 29.0 51.6 28.7 51.9 C28.5 52.1 28.4 52.3 28.3 52.4 C28.2 52.6 28.0 52.7 27.6 52.9 C27.3 53.1 27.3 53.1 27.1 53.3 C26.8 53.8 26.1 54.1 25.8 53.9 Z M36.9 49.1 C36.9 49.1 36.8 49.1 36.7 49.1 C36.6 49.1 36.5 49.0 36.3 48.9 C36.2 48.8 36.1 48.7 36.1 48.7 C36.0 48.7 35.7 48.6 35.7 48.4 C35.6 48.3 35.5 48.1 35.3 48.0 C35.1 47.8 35.1 47.7 35.1 47.6 C35.1 47.4 35.5 47.5 35.6 47.9 C35.6 48.2 36.1 48.2 36.3 47.9 C36.5 47.6 36.8 47.6 36.8 47.9 C36.8 47.9 36.8 48.0 36.7 48.1 C36.6 48.2 36.9 48.4 37.3 48.4 C37.8 48.4 37.8 49.1 37.2 49.1 C37.1 49.1 37.0 49.1 36.9 49.1 Z M49.1 48.0 C48.7 47.8 48.7 47.8 48.5 47.9 C48.4 47.9 48.2 47.9 47.8 47.9 C47.4 47.9 47.2 47.9 46.9 48.0 C46.4 48.1 46.2 48.1 45.9 47.7 C45.8 47.4 45.8 47.4 46.1 47.1 C46.3 46.7 46.7 46.5 47.0 46.5 C47.1 46.5 47.3 46.5 47.5 46.5 C47.9 46.4 48.1 46.5 48.6 46.8 C48.8 46.9 49.0 47.0 49.3 47.0 C50.1 47.2 50.3 47.6 49.8 48.0 C49.5 48.2 49.4 48.2 49.1 48.0 Z M37.5 47.9 C37.3 47.7 37.8 46.9 38.2 46.8 C38.3 46.8 38.3 46.8 38.3 46.4 C38.2 46.1 38.2 46.1 38.4 45.9 C38.6 45.8 38.6 45.7 38.5 45.4 C38.3 45.1 38.3 45.0 38.5 44.6 C38.6 44.3 38.7 44.3 38.9 44.4 C39.2 44.5 39.6 44.4 39.5 44.1 C39.5 43.9 39.4 43.8 39.1 43.8 C38.7 43.7 38.7 43.3 39.1 42.7 C39.4 42.3 39.5 42.3 39.7 42.6 C39.9 42.6 40.0 42.7 40.1 42.7 C40.2 42.8 40.3 42.8 40.3 42.8 C40.3 42.9 40.0 43.5 39.9 43.6 C39.9 43.7 39.8 43.8 39.8 44.0 C39.8 44.2 39.5 44.8 39.4 45.0 C39.1 45.3 38.8 45.8 38.8 46.1 C38.8 46.3 38.6 46.6 38.5 46.7 C38.4 46.8 38.4 46.8 38.4 47.0 C38.3 47.6 37.8 48.2 37.5 47.9 Z M28.5 31.5 C28.9 31.5 28.9 31.4 28.7 31.2 C28.3 30.8 28.3 30.7 28.6 30.5 C29.1 30.3 29.2 30.2 29.0 30.0 C28.8 29.8 29.0 29.5 29.5 29.5 C30.0 29.5 30.0 29.4 29.7 29.1 C29.2 28.6 28.7 28.6 27.7 29.1 C27.4 29.3 27.2 29.3 26.9 29.4 C26.6 29.4 26.5 29.4 26.3 29.7 C26.1 29.9 26.1 30.0 26.3 30.3 C26.6 30.8 26.6 30.8 27.0 31.0 C27.3 31.1 27.4 31.2 27.5 31.3 C27.7 31.5 28.0 31.6 28.1 31.6 C28.2 31.6 28.3 31.6 28.5 31.5 Z M28.8 26.7 C28.9 26.7 29.1 26.6 29.2 26.6 C29.7 26.4 29.6 25.2 29.1 25.2 C28.9 25.2 28.2 25.7 28.1 25.9 C27.8 26.5 28.3 27.0 28.8 26.7 Z M34.3 22.4 C34.3 22.3 34.4 22.3 34.4 22.1 C34.4 21.9 34.5 21.9 34.7 22.0 C34.8 22.1 35.0 22.2 35.1 22.2 C35.2 22.2 35.3 22.2 35.4 22.3 C35.6 22.5 35.7 22.4 35.5 22.0 C35.2 21.5 34.6 21.2 33.9 21.3 C33.5 21.4 33.5 21.4 33.6 21.8 C33.7 22.3 33.9 22.5 34.3 22.4 Z M25.8 17.5 C25.7 17.4 25.7 17.3 25.9 16.8 C26.0 16.6 26.0 16.3 26.1 16.2 C26.1 16.0 26.2 15.8 26.3 15.6 C26.4 15.4 26.5 15.2 26.5 15.1 C26.8 14.5 27.1 14.8 27.1 15.5 C27.1 16.6 26.2 17.9 25.8 17.5 Z M24.3 13.1 C24.3 13.0 24.2 12.9 24.1 12.8 L24.1 12.7 L23.9 12.9 C23.7 13.1 23.6 13.0 23.5 12.8 C23.4 12.7 23.4 12.4 23.3 12.2 C23.1 11.6 23.2 11.3 24.0 10.7 C24.2 10.6 24.5 10.3 24.7 10.2 C24.8 10.0 25.1 9.9 25.2 9.8 C25.6 9.7 25.9 9.5 26.0 9.3 C26.2 8.9 26.9 9.1 26.8 9.5 C26.8 9.6 26.8 9.6 26.1 10.0 C25.3 10.4 24.6 11.2 24.6 11.9 C24.6 12.1 24.5 12.3 24.5 12.4 C24.4 12.6 24.4 12.7 24.5 12.8 C24.5 13.2 24.5 13.3 24.3 13.1 Z"/></symbol>
   <symbol id="i-about" viewBox="0 0 64 64"><path fill="currentColor" fill-rule="evenodd" d="M20.66 51.21 C20.83 51.16 21.33 51.10 21.77 51.08 C22.50 51.03 22.99 50.96 24.17 50.70 C24.37 50.65 24.75 50.58 25.01 50.53 C25.27 50.49 25.76 50.36 26.09 50.26 C26.43 50.16 26.93 50.02 27.21 49.95 C28.07 49.74 28.52 49.59 29.64 49.15 C29.84 49.07 30.13 48.96 30.28 48.91 C30.43 48.86 30.64 48.78 30.75 48.72 C31.10 48.55 31.57 48.34 31.62 48.34 C31.69 48.34 33.94 47.22 34.33 46.99 C34.51 46.88 34.73 46.76 34.80 46.72 C34.88 46.69 35.15 46.52 35.41 46.35 C35.67 46.18 35.98 46.00 36.09 45.94 C36.20 45.89 36.34 45.80 36.38 45.74 C36.43 45.68 36.50 45.64 36.53 45.64 C36.56 45.64 36.76 45.52 36.98 45.37 C37.19 45.23 37.55 44.99 37.77 44.85 C38.20 44.57 39.04 43.99 39.22 43.84 C42.88 40.95 44.03 39.95 45.27 38.59 C45.48 38.36 45.90 37.92 46.20 37.60 C47.46 36.29 49.40 33.93 49.42 33.70 C49.42 33.68 49.53 33.52 49.66 33.35 C49.98 32.91 51.00 31.39 51.09 31.19 C51.14 31.10 51.25 30.90 51.34 30.75 C51.43 30.60 51.53 30.42 51.57 30.34 C51.73 30.00 51.98 29.50 52.16 29.16 C52.28 28.96 52.45 28.58 52.55 28.32 C52.65 28.06 52.76 27.79 52.79 27.71 C53.52 26.10 54.07 23.73 54.07 22.16 C54.08 21.03 53.84 19.50 53.51 18.61 C53.42 18.36 53.19 17.88 53.00 17.55 C52.81 17.22 52.66 16.88 52.66 16.79 C52.66 16.70 52.71 16.47 52.77 16.27 C52.88 15.88 52.87 15.17 52.73 14.57 C52.53 13.67 51.78 12.84 50.70 12.31 C50.20 12.07 49.71 11.88 49.55 11.88 C49.47 11.88 49.27 11.82 49.09 11.74 C48.79 11.60 48.71 11.59 47.56 11.63 C46.73 11.66 46.23 11.71 45.98 11.78 C45.77 11.85 45.39 11.92 45.13 11.95 C44.52 12.02 43.29 12.25 43.05 12.35 C42.95 12.39 42.79 12.42 42.71 12.42 C42.56 12.42 41.85 12.61 41.42 12.77 C41.20 12.85 40.54 13.05 40.00 13.20 C39.81 13.26 39.57 13.35 39.45 13.40 C39.33 13.46 39.20 13.50 39.16 13.50 C39.11 13.50 38.98 13.55 38.86 13.60 C38.75 13.65 38.53 13.74 38.38 13.80 C38.23 13.85 37.95 13.96 37.76 14.04 C37.56 14.11 37.24 14.24 37.05 14.32 C36.85 14.40 36.58 14.50 36.44 14.55 C36.30 14.61 35.99 14.74 35.73 14.86 C35.48 14.97 35.14 15.13 34.97 15.20 C34.80 15.28 34.27 15.53 33.79 15.76 C33.31 15.99 32.75 16.25 32.56 16.34 C32.13 16.53 31.88 16.77 31.66 17.23 C31.50 17.58 31.22 17.83 30.75 18.07 C30.64 18.12 30.44 18.24 30.30 18.32 C29.56 18.76 29.20 18.96 28.57 19.29 C28.19 19.48 27.85 19.65 27.81 19.65 C27.76 19.65 27.61 19.54 27.47 19.41 C27.32 19.28 27.14 19.17 27.07 19.17 C26.64 19.17 26.20 19.69 26.19 20.18 C26.19 20.35 26.15 20.54 26.11 20.59 C26.01 20.71 25.55 21.06 25.49 21.06 C25.42 21.06 24.39 21.76 23.46 22.44 C22.89 22.85 22.91 22.84 22.65 23.04 C22.54 23.13 22.36 23.25 22.26 23.31 C22.06 23.44 20.64 24.57 19.75 25.32 C18.63 26.25 15.51 29.44 14.83 30.35 C14.47 30.82 14.05 31.36 13.91 31.53 C13.85 31.59 13.68 31.83 13.52 32.04 C13.36 32.26 13.06 32.66 12.87 32.92 C12.67 33.18 12.42 33.54 12.31 33.71 C12.21 33.89 11.95 34.28 11.75 34.58 C11.55 34.89 11.11 35.69 10.76 36.37 C10.41 37.05 10.10 37.65 10.07 37.72 C10.03 37.79 9.94 38.01 9.86 38.21 C9.78 38.42 9.65 38.69 9.58 38.83 C9.51 38.97 9.45 39.13 9.45 39.19 C9.45 39.25 9.39 39.44 9.32 39.62 C9.04 40.30 8.69 41.57 8.63 42.09 C8.60 42.39 8.54 42.72 8.51 42.83 C8.40 43.14 8.42 44.68 8.54 45.00 C8.59 45.14 8.64 45.40 8.64 45.56 C8.64 45.72 8.70 46.01 8.78 46.20 C9.23 47.30 9.33 47.47 9.95 48.16 C10.32 48.58 11.25 49.37 11.91 49.82 C12.05 49.92 12.36 50.15 12.61 50.33 C13.36 50.90 13.54 50.98 14.00 50.97 C14.88 50.96 17.12 51.11 17.42 51.20 C17.84 51.34 20.23 51.34 20.66 51.21 Z M16.84 49.89 C16.51 49.86 16.11 49.80 15.97 49.76 C15.82 49.72 15.56 49.69 15.39 49.69 C15.06 49.69 14.28 49.49 13.74 49.27 C13.20 49.05 12.80 48.87 12.69 48.81 C12.64 48.77 12.48 48.69 12.35 48.61 C11.74 48.27 10.53 47.03 10.53 46.73 C10.53 46.68 10.47 46.53 10.40 46.39 C9.89 45.40 9.81 43.38 10.22 41.53 C10.36 40.91 10.62 40.13 10.86 39.56 C10.97 39.32 11.14 38.92 11.24 38.68 C11.34 38.44 11.47 38.20 11.52 38.14 C11.57 38.08 11.61 37.99 11.61 37.93 C11.61 37.82 11.71 37.64 12.49 36.22 C12.59 36.03 12.83 35.65 13.02 35.38 C13.43 34.79 13.71 34.38 13.80 34.22 C14.08 33.77 15.31 32.20 15.77 31.69 C16.18 31.24 16.87 30.46 17.25 30.01 C18.00 29.12 18.99 28.11 19.95 27.26 C20.32 26.92 20.99 26.33 21.43 25.93 C22.68 24.81 23.98 23.79 24.92 23.19 C24.98 23.15 25.45 22.84 25.96 22.50 C26.48 22.15 26.95 21.87 27.01 21.87 C27.08 21.87 27.24 22.04 27.39 22.26 L27.65 22.65 L28.10 22.67 C28.35 22.68 28.61 22.66 28.69 22.62 C28.88 22.52 28.96 22.14 28.96 21.42 C28.96 20.67 29.02 20.59 29.88 20.00 C31.15 19.14 31.50 19.00 32.01 19.20 C32.25 19.30 32.43 19.31 33.18 19.27 C34.23 19.21 34.50 19.13 34.50 18.85 C34.50 18.73 34.43 18.59 34.31 18.48 C34.14 18.31 34.07 18.30 33.63 18.30 C32.94 18.30 32.98 18.09 33.76 17.69 C34.00 17.57 34.35 17.39 34.53 17.28 C34.72 17.18 35.04 17.02 35.24 16.92 C35.44 16.82 35.72 16.68 35.86 16.60 C36.00 16.53 36.16 16.47 36.22 16.47 C36.28 16.47 36.41 16.43 36.51 16.37 C36.61 16.32 36.82 16.23 36.98 16.17 C37.69 15.92 37.85 15.86 37.97 15.80 C38.05 15.76 38.24 15.69 38.40 15.63 C39.11 15.38 39.27 15.31 39.47 15.22 C39.59 15.17 39.72 15.12 39.76 15.12 C39.80 15.12 39.96 15.07 40.12 15.00 C40.51 14.82 40.80 14.72 41.33 14.57 C41.58 14.50 41.99 14.39 42.24 14.32 C42.50 14.25 42.84 14.15 43.00 14.11 C43.17 14.07 43.53 13.97 43.80 13.90 C44.06 13.83 44.36 13.77 44.45 13.77 C44.55 13.77 44.74 13.73 44.88 13.68 C45.51 13.43 48.08 13.30 48.93 13.46 C49.89 13.64 50.85 14.24 51.11 14.82 C51.25 15.12 51.28 15.63 51.17 15.91 C51.13 16.02 51.07 16.31 51.04 16.57 C51.01 16.83 50.95 17.21 50.90 17.42 C50.84 17.70 50.83 17.98 50.88 18.53 C50.93 19.21 50.95 19.28 51.08 19.29 C51.19 19.31 51.28 19.23 51.45 18.96 C51.84 18.34 51.91 18.34 52.15 19.05 C52.40 19.80 52.48 20.47 52.48 21.81 C52.47 23.03 52.40 23.82 52.24 24.34 C52.18 24.52 52.10 24.81 52.05 24.98 C51.84 25.77 51.76 26.04 51.67 26.16 C51.62 26.23 51.58 26.35 51.58 26.42 C51.58 26.49 51.54 26.63 51.48 26.72 C51.43 26.82 51.31 27.09 51.21 27.31 C50.91 27.97 50.17 29.45 49.99 29.74 C49.90 29.89 49.78 30.10 49.72 30.21 C49.66 30.32 49.53 30.55 49.42 30.72 C49.31 30.88 49.19 31.08 49.16 31.16 C49.12 31.23 49.05 31.34 48.99 31.39 C48.93 31.44 48.88 31.50 48.88 31.53 C48.88 31.56 48.79 31.72 48.67 31.88 C48.56 32.04 48.42 32.24 48.35 32.34 C48.07 32.76 47.12 34.01 46.94 34.19 C46.83 34.31 46.55 34.64 46.31 34.94 C45.84 35.54 45.65 35.74 44.62 36.82 C44.03 37.45 43.18 38.28 42.40 39.02 C42.22 39.19 41.81 39.53 41.38 39.87 C41.25 39.98 40.95 40.25 40.70 40.48 C40.45 40.71 40.10 40.99 39.92 41.12 C39.74 41.24 39.30 41.58 38.94 41.87 C38.59 42.16 37.92 42.64 37.46 42.95 C37.00 43.26 36.51 43.60 36.36 43.71 C36.06 43.94 35.99 43.99 34.79 44.69 C34.32 44.97 33.84 45.26 33.72 45.33 C33.28 45.60 32.27 46.18 32.24 46.18 C32.22 46.18 32.03 46.30 31.82 46.45 C31.60 46.60 31.40 46.72 31.37 46.72 C31.34 46.72 31.12 46.81 30.88 46.92 C30.64 47.03 30.25 47.21 30.01 47.32 C29.77 47.44 29.55 47.53 29.52 47.53 C29.49 47.53 29.39 47.57 29.29 47.62 C29.19 47.67 29.00 47.75 28.86 47.80 C28.72 47.84 28.53 47.92 28.43 47.97 C28.33 48.02 28.21 48.07 28.16 48.07 C28.11 48.07 27.99 48.11 27.89 48.17 C27.70 48.28 27.50 48.35 26.57 48.66 C24.94 49.21 23.14 49.61 21.33 49.83 C20.56 49.92 17.69 49.96 16.84 49.89 Z M29.87 41.48 C30.10 41.43 30.38 41.37 30.51 41.35 C30.64 41.32 30.86 41.24 30.99 41.18 C31.12 41.11 31.42 40.96 31.66 40.84 C32.71 40.34 33.56 39.62 34.13 38.75 C34.53 38.14 35.11 36.81 35.11 36.51 C35.11 36.38 35.15 36.14 35.21 35.98 C35.33 35.64 35.34 34.57 35.23 34.23 C35.19 34.10 35.13 33.82 35.10 33.62 C34.98 32.70 34.35 31.44 33.59 30.58 C33.16 30.10 32.17 29.36 31.53 29.05 C30.75 28.67 29.69 28.42 28.73 28.37 C28.19 28.34 27.32 28.49 26.60 28.73 C26.43 28.79 26.20 28.86 26.09 28.89 C25.98 28.92 25.75 29.03 25.59 29.12 C25.42 29.22 25.19 29.35 25.08 29.41 C24.84 29.54 24.01 30.19 23.76 30.44 C23.59 30.62 23.06 31.30 22.91 31.56 C22.54 32.16 22.14 33.14 22.14 33.43 C22.14 33.55 22.09 33.78 22.04 33.92 C21.90 34.30 21.91 35.75 22.05 36.25 C22.35 37.35 22.71 38.17 23.11 38.69 C23.82 39.63 24.69 40.42 25.45 40.81 C26.92 41.56 28.48 41.80 29.87 41.48 Z"/></symbol>
 </svg>
 
@@ -458,6 +459,7 @@ h2.year { font-size: 13px; font-weight: 700; letter-spacing: .3em; color: var(--
       <figure><span class="gtile big"><svg class="ic"><use href="library.svg#i-thigh"/></svg></span><figcaption>thigh</figcaption></figure>
       <figure><span class="gtile big"><svg class="ic"><use href="library.svg#i-paw"/></svg></span><figcaption>paw</figcaption></figure>
       <figure><span class="gtile big"><svg class="ic"><use href="library.svg#i-oven-fish"/></svg></span><figcaption>oven-fish</figcaption></figure>
+      <figure><span class="gtile big"><svg class="ic"><use href="library.svg#i-whittaker"/></svg></span><figcaption>whittaker</figcaption></figure>
     </div>
     <p><strong>One post, many cuts.</strong> A post is written once as a list of parts: text, image or clip. The page shows it two ways: read, as an essay with the clips set into it, and swipe, panel by panel for a phone.</p>
     <p><strong>Two languages, one stream.</strong> Every piece appears in the language it was written in. A switch shows the other language, translated automatically, and the translated page always says so and links back to the original.</p>
@@ -484,7 +486,7 @@ h2.year { font-size: 13px; font-weight: 700; letter-spacing: .3em; color: var(--
   // t = text slide (paragraphs), i = image, v = clip.
   const POSTS = [
     {
-      id: 'whittaker', glyph: 'dashes',
+      id: 'whittaker', glyph: 'whittaker',
       also: [{ label: 'Instagram', href: 'https://www.instagram.com/p/DehZfp7DLAR/' }],
       date: '2026-10-15',
       title: 'Next semester, I’m opening my critical theory class with the first 9 minutes of this BBC interview with Meredith Whittaker.',
